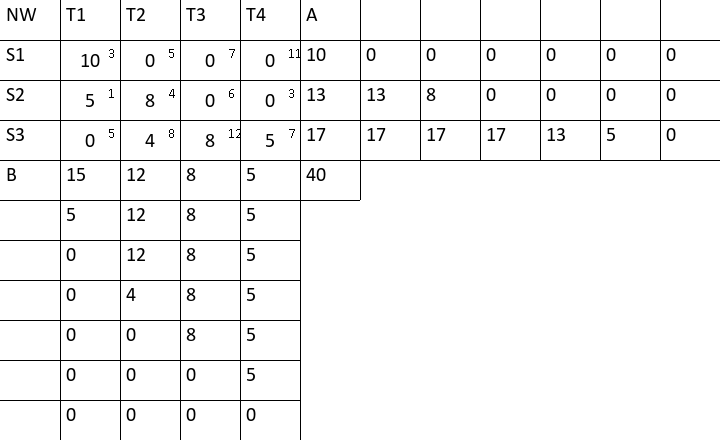
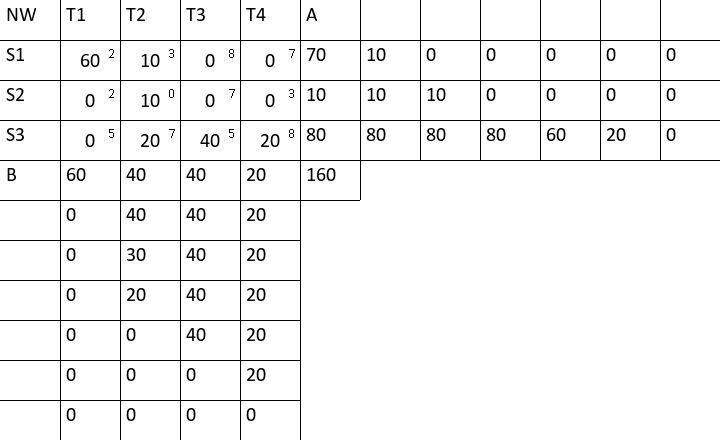
new U V getting method

diff --git a/potential_optimization.py b/potential_optimization.py
@@ -64,7 +64,7 @@ class Potential:
                 vertical = not vertical
                 continue
 
-            if not path:
+            if path.count(path[-1]) > 2:
                 return False
 
             if self.U[i] == '':
